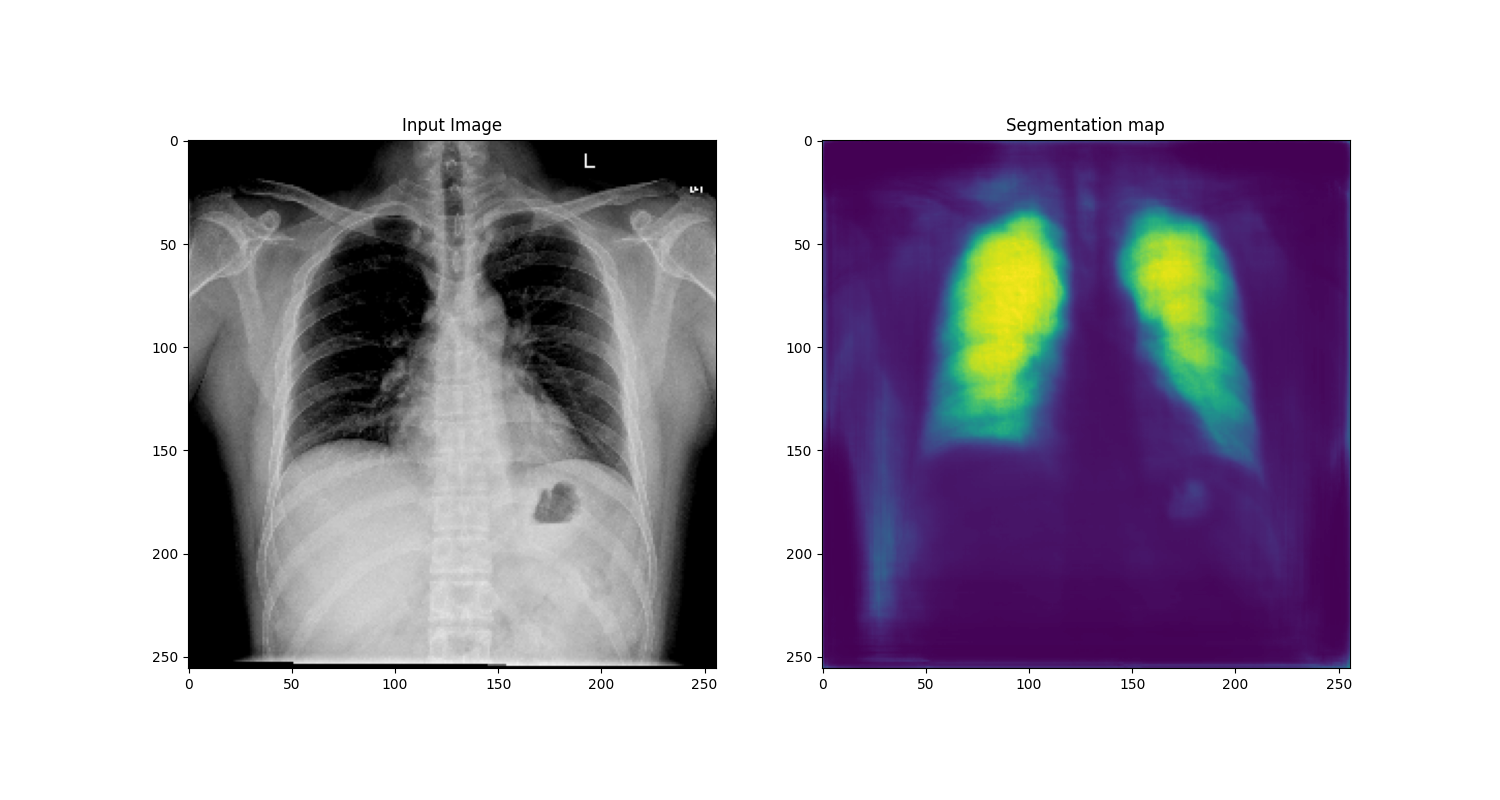
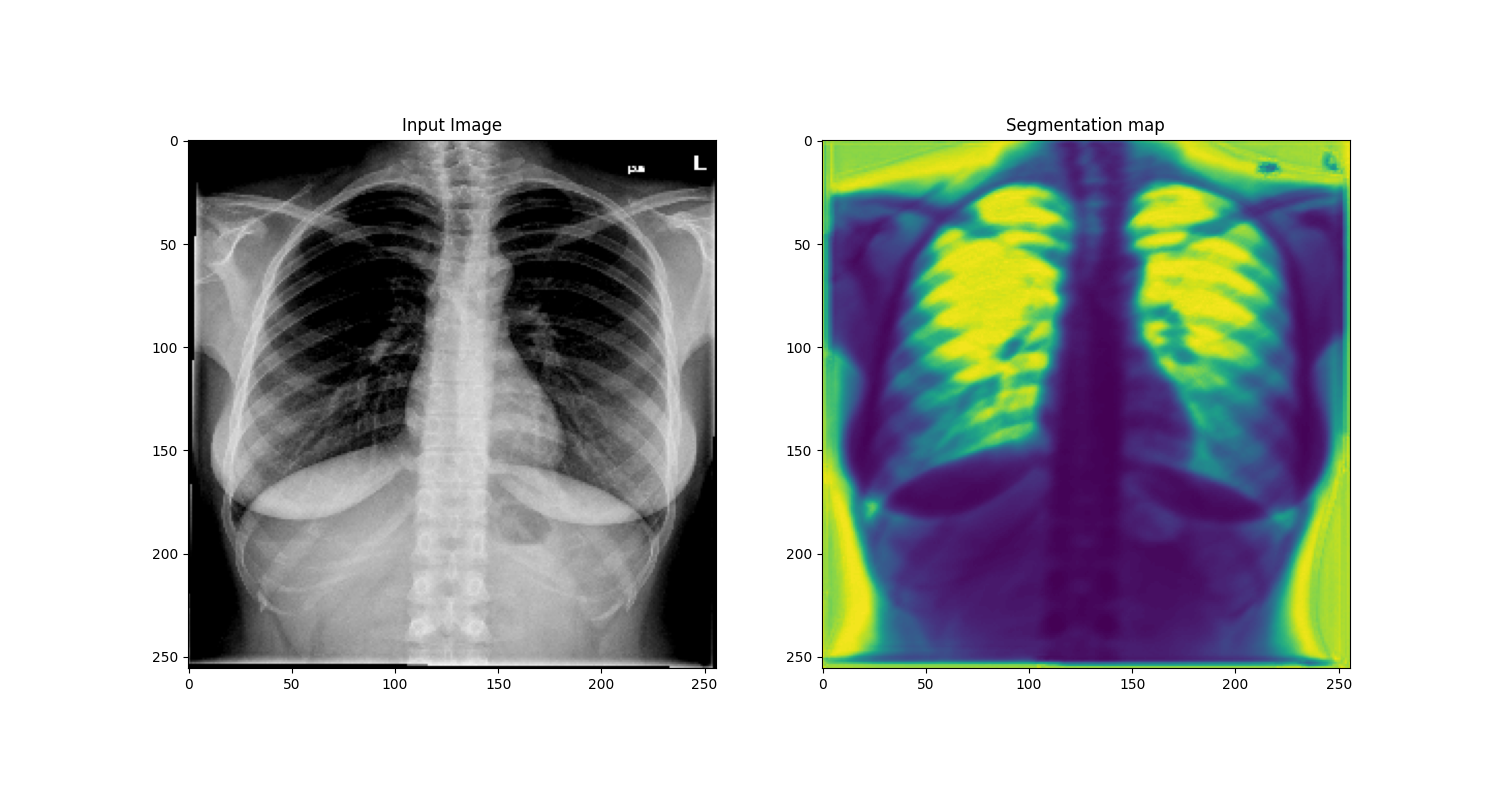
.

Changed region(s): [[0.5213, 0.1562, 0.92, 0.8438], [0.1227, 0.1562, 0.4907, 0.8438]]

diff --git a/ema-unet/models.py b/ema-unet/models.py
@@ -48,26 +48,31 @@ class EMA_Unet:
         ## Encoding path ##
         conv_1_1 = Conv2D(64, kernel_size=3, padding='same', activation='relu', kernel_initializer=init, kernel_regularizer=reg)(inputs)
         conv_1_2 = Conv2D(64, kernel_size=3, padding='same', activation='relu', kernel_initializer=init, kernel_regularizer=reg)(conv_1_1)
+        conv_1_2 = Dropout(0.5)(conv_1_2)
 
         pool = MaxPooling2D(pool_size=(2,2))(conv_1_2)
 
         conv_2_1 = Conv2D(128, kernel_size=3, padding='same', activation='relu', kernel_initializer=init, kernel_regularizer=reg)(pool)
         conv_2_2 = Conv2D(128, kernel_size=3, padding='same', activation='relu', kernel_initializer=init, kernel_regularizer=reg)(conv_2_1)
+        conv_2_2 = Dropout(0.5)(conv_2_2)
 
         pool = MaxPooling2D(pool_size=(2,2))(conv_2_2)
 
         conv_3_1 = Conv2D(256, kernel_size=3, padding='same', activation='relu', kernel_initializer=init, kernel_regularizer=reg)(pool)
         conv_3_2 = Conv2D(256, kernel_size=3, padding='same', activation='relu', kernel_initializer=init, kernel_regularizer=reg)(conv_3_1)
+        conv_3_2 = Dropout(0.5)(conv_3_2)
 
         pool = MaxPooling2D(pool_size=(2,2))(conv_3_2)
 
         conv_4_1 = Conv2D(512, kernel_size=3, padding='same', activation='relu', kernel_initializer=init, kernel_regularizer=reg)(pool)
         conv_4_2 = Conv2D(512, kernel_size=3, padding='same', activation='relu', kernel_initializer=init, kernel_regularizer=reg)(conv_4_1)
+        conv_4_2 = Dropout(0.5)(conv_4_2)
 
         pool = MaxPooling2D(pool_size=(2,2))(conv_4_2)
 
         conv_5_1 = Conv2D(1024, kernel_size=3, padding='same', activation='relu', kernel_initializer=init, kernel_regularizer=reg)(pool)
         conv_5_2 = Conv2D(1024, kernel_size=3, padding='same', activation='relu', kernel_initializer=init, kernel_regularizer=reg)(conv_5_1)
+        conv_5_2 = Dropout(0.5)(conv_5_2)
 
         ## Decoding path ##
         # up1 = Conv2DTranspose(512, kernel_size=2, strides=(2,2), padding='same', activation='relu', kernel_initializer=init, kernel_regularizer=reg)(conv_5_2)
@@ -76,6 +81,7 @@ class EMA_Unet:
 
         upconv_1_1 = Conv2D(512, kernel_size=2, padding='same', activation='relu', kernel_initializer=init, kernel_regularizer=reg)(up1)
         upconv_1_2 = Conv2D(512, kernel_size=3, padding='same', activation='relu', kernel_initializer=init, kernel_regularizer=reg)(upconv_1_1)
+        upconv_1_2 = Dropout(0.5)(upconv_1_2)
 
         # up2 = Conv2DTranspose(256, kernel_size=2, strides=(2,2), padding='same', activation='relu', kernel_initializer=init, kernel_regularizer=reg)(upconv_1_2)
         up2 = UpSampling2D(size=(2,2))(upconv_1_2)
@@ -83,6 +89,7 @@ class EMA_Unet:
 
         upconv_2_1 = Conv2D(256, kernel_size=2, padding='same', activation='relu', kernel_initializer=init, kernel_regularizer=reg)(up2)
         upconv_2_2 = Conv2D(256, kernel_size=3, padding='same', activation='relu', kernel_initializer=init, kernel_regularizer=reg)(upconv_2_1)
+        upconv_2_2 = Dropout(0.5)(upconv_2_2)
 
         # up3 = Conv2DTranspose(128, kernel_size=2, strides=(2,2), padding='same', activation='relu', kernel_initializer=init, kernel_regularizer=reg)(upconv_2_2)
         up3 = UpSampling2D(size=(2,2))(upconv_2_2)
@@ -90,6 +97,7 @@ class EMA_Unet:
 
         upconv_3_1 = Conv2D(128, kernel_size=2, padding='same', activation='relu', kernel_initializer=init, kernel_regularizer=reg)(up3)
         upconv_3_2 = Conv2D(128, kernel_size=3, padding='same', activation='relu', kernel_initializer=init, kernel_regularizer=reg)(upconv_3_1)
+        upconv_3_2 = Dropout(0.5)(upconv_3_2)
 
         # up4 = Conv2DTranspose(64, kernel_size=2, strides=(2,2), padding='same', activation='relu', kernel_initializer=init, kernel_regularizer=reg)(upconv_3_2)
         up4 = UpSampling2D(size=(2,2))(upconv_3_2)
@@ -97,6 +105,7 @@ class EMA_Unet:
 
         upconv_4_1 = Conv2D(64, kernel_size=2, padding='same', activation='relu', kernel_initializer=init, kernel_regularizer=reg)(up4)
         upconv_4_2 = Conv2D(64, kernel_size=3, padding='same', activation='relu', kernel_initializer=init, kernel_regularizer=reg)(upconv_4_1)
+        upconv_4_2 = Dropout(0.5)(upconv_4_2)
         output = Conv2D(1, kernel_size=3, activation='sigmoid', padding='same', kernel_initializer=init, kernel_regularizer=reg)(upconv_4_2)
 
         model = Model(inputs=inputs, outputs=output, name='UNet-Lung-Segmentation')

diff --git a/ema-unet/train.py b/ema-unet/train.py
@@ -14,7 +14,7 @@ from argparse import ArgumentParser
 parser = ArgumentParser()
 parser.add_argument('--data', type=str, required=True, help='Path to the data directory with subdirectories "images" and "masks"')
 parser.add_argument('--u-data', type=str, required=False, default=None, help='Path to the unlabelled dataset')
-parser.add_argument('--momentum', type=str, required=False, default=0.1, help='EMA momentum')
+parser.add_argument('--momentum', type=str, required=False, default=0.999, help='EMA momentum')
 parser.add_argument('--epochs', type=int, required=False, default=100, help='Number of training iterations')
 parser.add_argument('--batch-size', type=int, required=False, default=16, help='Number of instances per batch')
 parser.add_argument('--u-batch-size', type=int, required=False, default=8, help='Number of instances per batch in unsupervised training')
@@ -146,7 +146,7 @@ def train(model, train_dataset, val_dataset, u_dataset=None, save_path='checkpoi
 
         if(stop_training) : break
 
-ema = False # Whether to use Mean Teacher or not
+ema = True # Whether to use Mean Teacher or not
 data_dir = args['data'] 
 momentum = args['momentum']
 u_data_dir = args['u_data']
